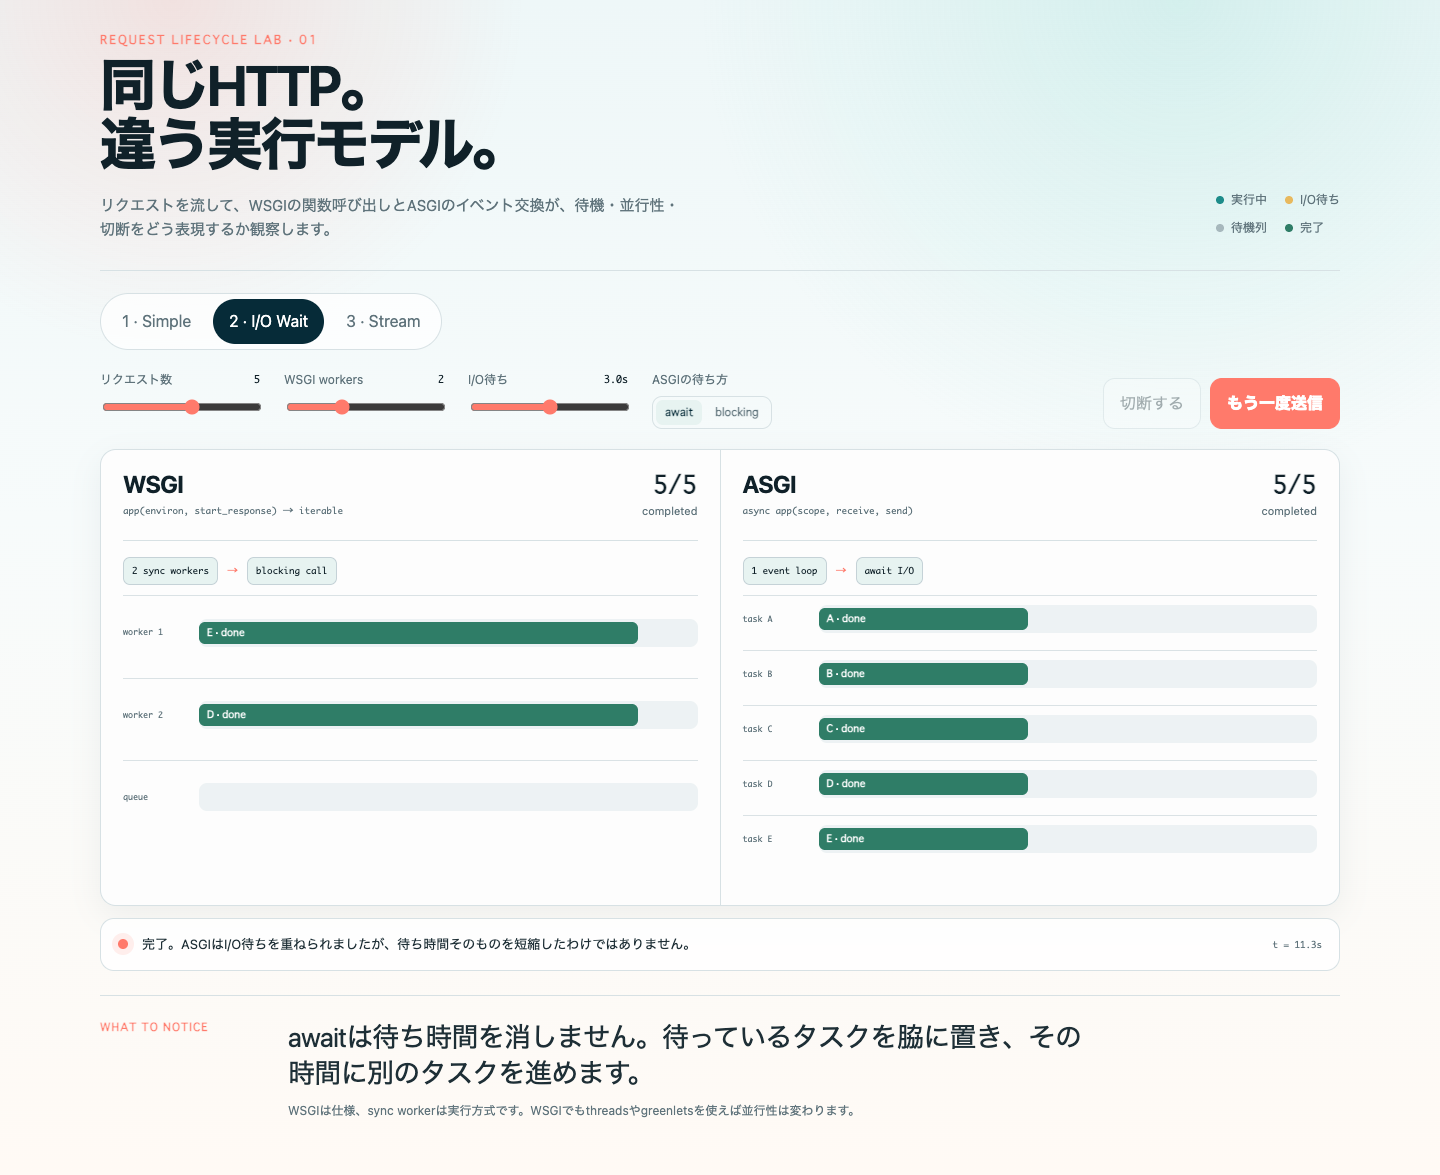
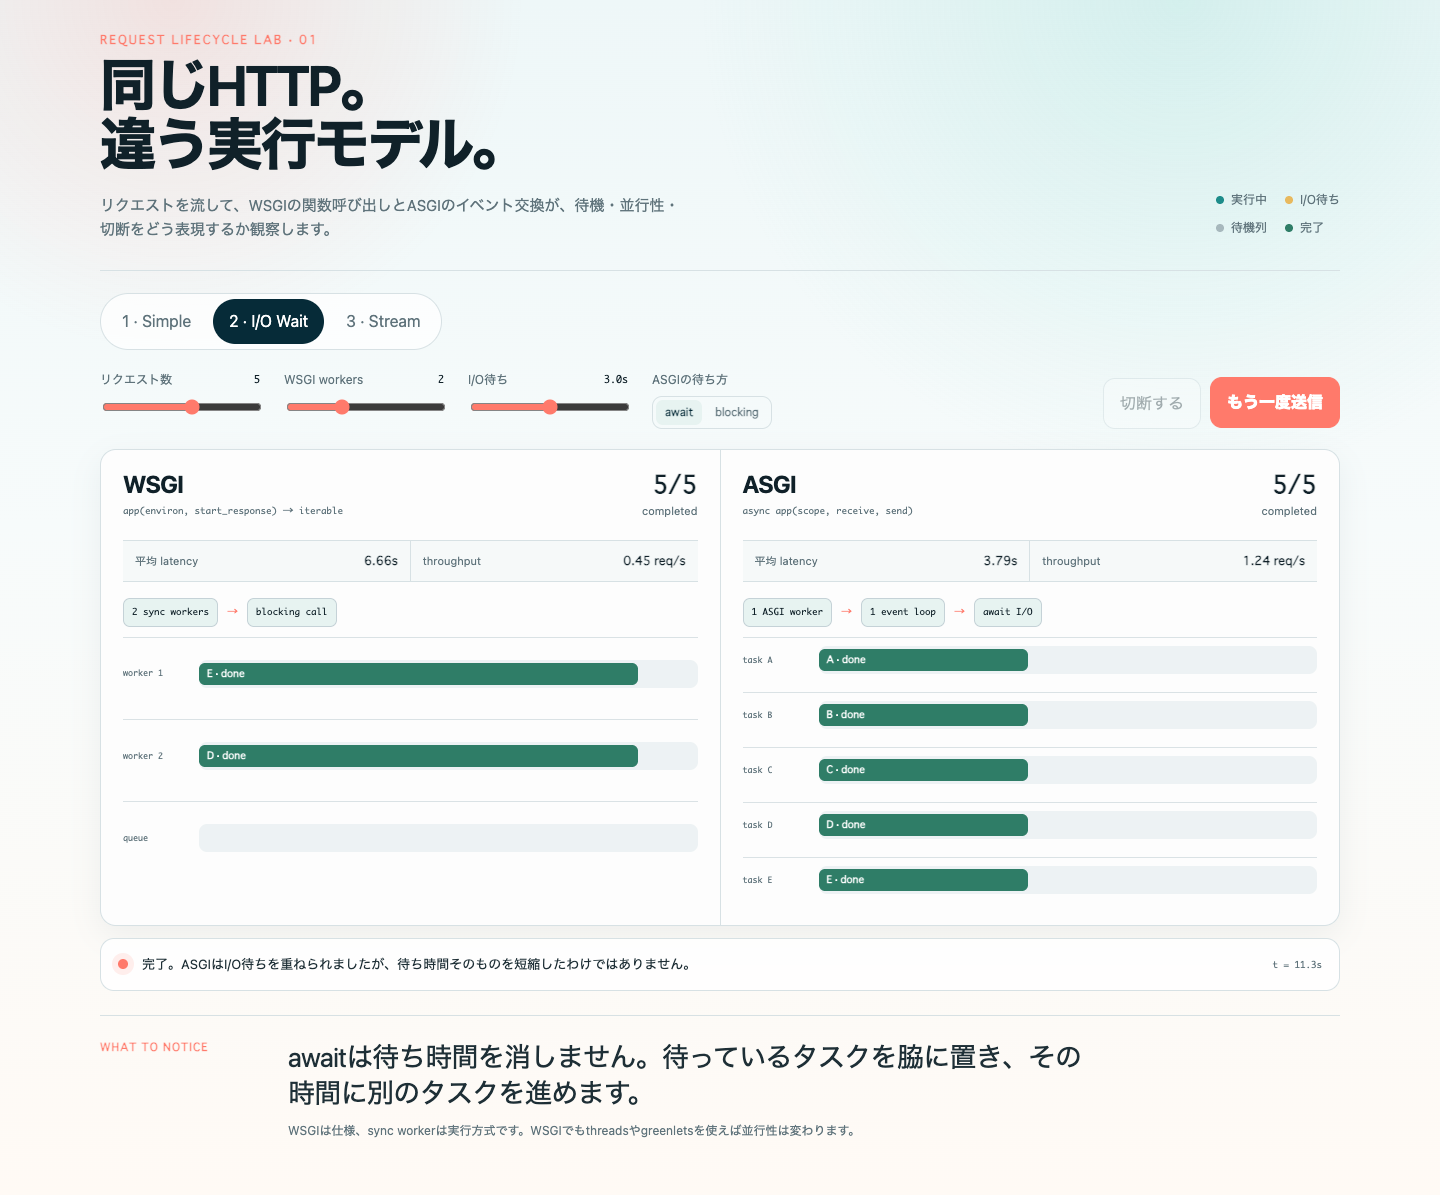
feat(blog): enhance WSGI and ASGI comparison lab

diff --git a/public/labs/wsgi-asgi-lab.html b/public/labs/wsgi-asgi-lab.html
@@ -240,6 +240,27 @@
     .counter strong { display: block; color: var(--text-strong); font: 600 24px/1 var(--font-code); }
     .counter span { color: var(--muted); font-size: 11px; }
 
+    .metrics {
+      display: grid;
+      grid-template-columns: repeat(2, minmax(0, 1fr));
+      gap: 1px;
+      margin: 0;
+      border-bottom: 1px solid var(--line);
+      background: var(--line);
+    }
+
+    .metric {
+      display: flex;
+      align-items: baseline;
+      justify-content: space-between;
+      gap: 12px;
+      padding: 11px 12px;
+      background: rgba(247, 250, 250, .96);
+    }
+
+    .metric dt { color: var(--muted); font-size: 11px; }
+    .metric dd { margin: 0; color: var(--text-strong); font: 650 12px/1 var(--font-code); }
+
     .architecture {
       display: flex;
       align-items: center;
@@ -361,6 +382,8 @@
       .controls { display: grid; grid-template-columns: 1fr 1fr; gap: 12px; }
       .control { min-width: 0; }
       .model { padding: 17px; }
+      .metric { display: block; }
+      .metric dd { margin-top: 5px; }
       .lane { grid-template-columns: 61px minmax(0, 1fr); }
       .legend { grid-template-columns: repeat(2, auto); }
       .explanation { grid-template-columns: auto minmax(0, 1fr); }
@@ -431,6 +454,10 @@
           </div>
           <div class="counter"><strong id="wsgiCount">0/5</strong><span>completed</span></div>
         </div>
+        <dl class="metrics" aria-label="WSGIの性能指標">
+          <div class="metric"><dt>平均 latency</dt><dd id="wsgiLatency">—</dd></div>
+          <div class="metric"><dt>throughput</dt><dd id="wsgiThroughput">—</dd></div>
+        </dl>
         <div class="architecture" id="wsgiArch"></div>
         <div class="lanes" id="wsgiLanes"></div>
       </article>
@@ -443,6 +470,10 @@
           </div>
           <div class="counter"><strong id="asgiCount">0/5</strong><span>completed</span></div>
         </div>
+        <dl class="metrics" aria-label="ASGIの性能指標">
+          <div class="metric"><dt>平均 latency</dt><dd id="asgiLatency">—</dd></div>
+          <div class="metric"><dt>throughput</dt><dd id="asgiThroughput">—</dd></div>
+        </dl>
         <div class="architecture" id="asgiArch"></div>
         <div class="lanes" id="asgiLanes"></div>
       </article>
@@ -487,6 +518,8 @@
         wsgiLanes: $('#wsgiLanes'), asgiLanes: $('#asgiLanes'),
         wsgiArch: $('#wsgiArch'), asgiArch: $('#asgiArch'),
         wsgiCount: $('#wsgiCount'), asgiCount: $('#asgiCount'),
+        wsgiLatency: $('#wsgiLatency'), asgiLatency: $('#asgiLatency'),
+        wsgiThroughput: $('#wsgiThroughput'), asgiThroughput: $('#asgiThroughput'),
         explanation: $('#explanation'), clock: $('#clock'),
         takeaway: $('#takeawayText'), caveat: $('#caveat')
       };
@@ -544,20 +577,47 @@
         return `<div class="event ${status}"><i class="pulse"></i><span>${name}</span><span class="dir">${direction}</span></div>`;
       }
 
+      function resetMetrics() {
+        els.wsgiLatency.textContent = '—';
+        els.asgiLatency.textContent = '—';
+        els.wsgiThroughput.textContent = '—';
+        els.asgiThroughput.textContent = '—';
+      }
+
+      function renderMetrics(kind, completionTimes, t) {
+        const completed = completionTimes.filter(end => t >= end);
+        const latency = kind === 'wsgi' ? els.wsgiLatency : els.asgiLatency;
+        const throughput = kind === 'wsgi' ? els.wsgiThroughput : els.asgiThroughput;
+
+        if (completed.length === 0) {
+          latency.textContent = '—';
+          throughput.textContent = '0.00 req/s';
+          return;
+        }
+
+        const average = completed.reduce((sum, end) => sum + end, 0) / completed.length;
+        const elapsed = completed.length === completionTimes.length
+          ? Math.max(...completionTimes)
+          : Math.max(t, .1);
+        latency.textContent = `${average.toFixed(2)}s`;
+        throughput.textContent = `${(completed.length / elapsed).toFixed(2)} req/s`;
+      }
+
       function renderIdle() {
         const c = config();
+        resetMetrics();
         els.clock.textContent = 't = 0.0s';
         els.wsgiCount.textContent = `0/${state.scenario === 'stream' ? 1 : c.requests}`;
         els.asgiCount.textContent = `0/${state.scenario === 'stream' ? 1 : c.requests}`;
         if (state.scenario === 'simple') {
           els.wsgiArch.innerHTML = node('HTTP') + arrow() + node('callable') + arrow() + node('iterable');
-          els.asgiArch.innerHTML = node('HTTP') + arrow('⇄') + node('receive / send') + arrow() + node('events');
+          els.asgiArch.innerHTML = node('1 ASGI worker') + arrow() + node('1 event loop') + arrow('⇄') + node('receive / send');
           els.wsgiLanes.innerHTML = lane('worker', task('ready', 'queued', 24));
           els.asgiLanes.innerHTML = lane('event loop', task('ready', 'queued', 24));
           els.explanation.innerHTML = `「${c.requests}件を送信」で、2つのモデルを同時に動かします。`;
         } else if (state.scenario === 'io') {
           els.wsgiArch.innerHTML = node(`${c.workers} sync workers`) + arrow() + node('blocking call');
-          els.asgiArch.innerHTML = node('1 event loop') + arrow() + node(state.mode === 'await' ? 'await I/O' : 'time.sleep');
+          els.asgiArch.innerHTML = node('1 ASGI worker') + arrow() + node('1 event loop') + arrow() + node(state.mode === 'await' ? 'await I/O' : 'blocking I/O');
           els.wsgiLanes.innerHTML = Array.from({length: c.workers}, (_, i) => lane(`worker ${i + 1}`)).join('') + lane('queue');
           els.asgiLanes.innerHTML = lane('event loop') + lane(state.mode === 'await' ? 'awaiting' : 'blocked');
           els.explanation.innerHTML = state.mode === 'await'
@@ -565,7 +625,7 @@
             : '<code>time.sleep()</code>はスレッドを止め、同じループのほかのタスクも進めません。';
         } else {
           els.wsgiArch.innerHTML = node('callable') + arrow() + node('body iterable') + arrow() + node('client');
-          els.asgiArch.innerHTML = node('receive') + arrow('⇄') + node('application') + arrow('⇄') + node('send');
+          els.asgiArch.innerHTML = node('1 ASGI worker') + arrow() + node('receive') + arrow('⇄') + node('send');
           els.wsgiLanes.innerHTML = `<div class="event-stream">${eventRow('start_response("200 OK")', 'app → server')}${eventRow('yield chunk 1', 'app → server')}${eventRow('yield chunk 2', 'app → server')}${eventRow('yield chunk 3', 'app → server')}</div>`;
           els.asgiLanes.innerHTML = `<div class="event-stream">${eventRow('http.response.start', 'send →')}${eventRow('http.response.body · 1', 'send →')}${eventRow('http.response.body · 2', 'send →')}${eventRow('http.response.body · 3', 'send →')}</div>`;
           els.explanation.textContent = '開始すると、同じ3チャンクのHTTPレスポンスが異なるインターフェースを通ります。';
@@ -600,6 +660,7 @@
       function renderSimple(t) {
         const c = config();
         const total = Math.max(1, c.requests * .42 + .7);
+        const completionTimes = Array.from({length: c.requests}, (_, i) => i * .42 + .6);
         let wDone = 0, aDone = 0;
         const wRows = [];
         const aRows = [];
@@ -618,6 +679,8 @@
         els.asgiLanes.innerHTML = aRows.join('');
         els.wsgiCount.textContent = `${Math.min(wDone, c.requests)}/${c.requests}`;
         els.asgiCount.textContent = `${Math.min(aDone, c.requests)}/${c.requests}`;
+        renderMetrics('wsgi', completionTimes, t);
+        renderMetrics('asgi', completionTimes, t);
         els.explanation.innerHTML = t < .3
           ? 'WSGIはcallableを呼び、ASGIは<code>http.request</code>を受け取ります。'
           : t < total - .3
@@ -674,6 +737,12 @@
         const wDone = wsgiJobs.filter(j => j.status === 'done').length;
         els.wsgiCount.textContent = `${wDone}/${c.requests}`;
         els.asgiCount.textContent = `${Math.min(asgiDone, c.requests)}/${c.requests}`;
+        const wsgiCompletionTimes = wsgiJobs.map(job => job.end);
+        const asgiCompletionTimes = Array.from({length: c.requests}, (_, i) =>
+          state.mode === 'await' ? i * .12 + c.wait + .55 : (i + 1) * service
+        );
+        renderMetrics('wsgi', wsgiCompletionTimes, t);
+        renderMetrics('asgi', asgiCompletionTimes, t);
         if (state.mode === 'await') {
           els.explanation.innerHTML = t < .5
             ? 'ASGIでは各タスクが<code>await</code>へ到達すると、次のタスクが開始します。'
@@ -711,6 +780,11 @@
         const done = state.disconnected || t >= 8.8;
         els.wsgiCount.textContent = `${done ? 1 : 0}/1`;
         els.asgiCount.textContent = `${done ? 1 : 0}/1`;
+        if (done) {
+          const completionTime = state.disconnected ? Math.max(t, .1) : 8.8;
+          renderMetrics('wsgi', [completionTime], t);
+          renderMetrics('asgi', [completionTime], t);
+        }
         return done;
       }
 
@@ -756,6 +830,21 @@
       });
 
       setScenario('simple');
+
+      const frameElement = window.frameElement;
+      if (frameElement?.tagName === 'IFRAME') {
+        let resizeFrame = null;
+        const syncFrameHeight = () => {
+          if (resizeFrame) cancelAnimationFrame(resizeFrame);
+          resizeFrame = requestAnimationFrame(() => {
+            frameElement.style.height = `${Math.ceil(document.body.getBoundingClientRect().height) + 2}px`;
+          });
+        };
+        new ResizeObserver(syncFrameHeight).observe(document.body);
+        window.addEventListener('load', syncFrameHeight);
+        window.addEventListener('resize', syncFrameHeight);
+        syncFrameHeight();
+      }
     })();
   </script>
 </body>
